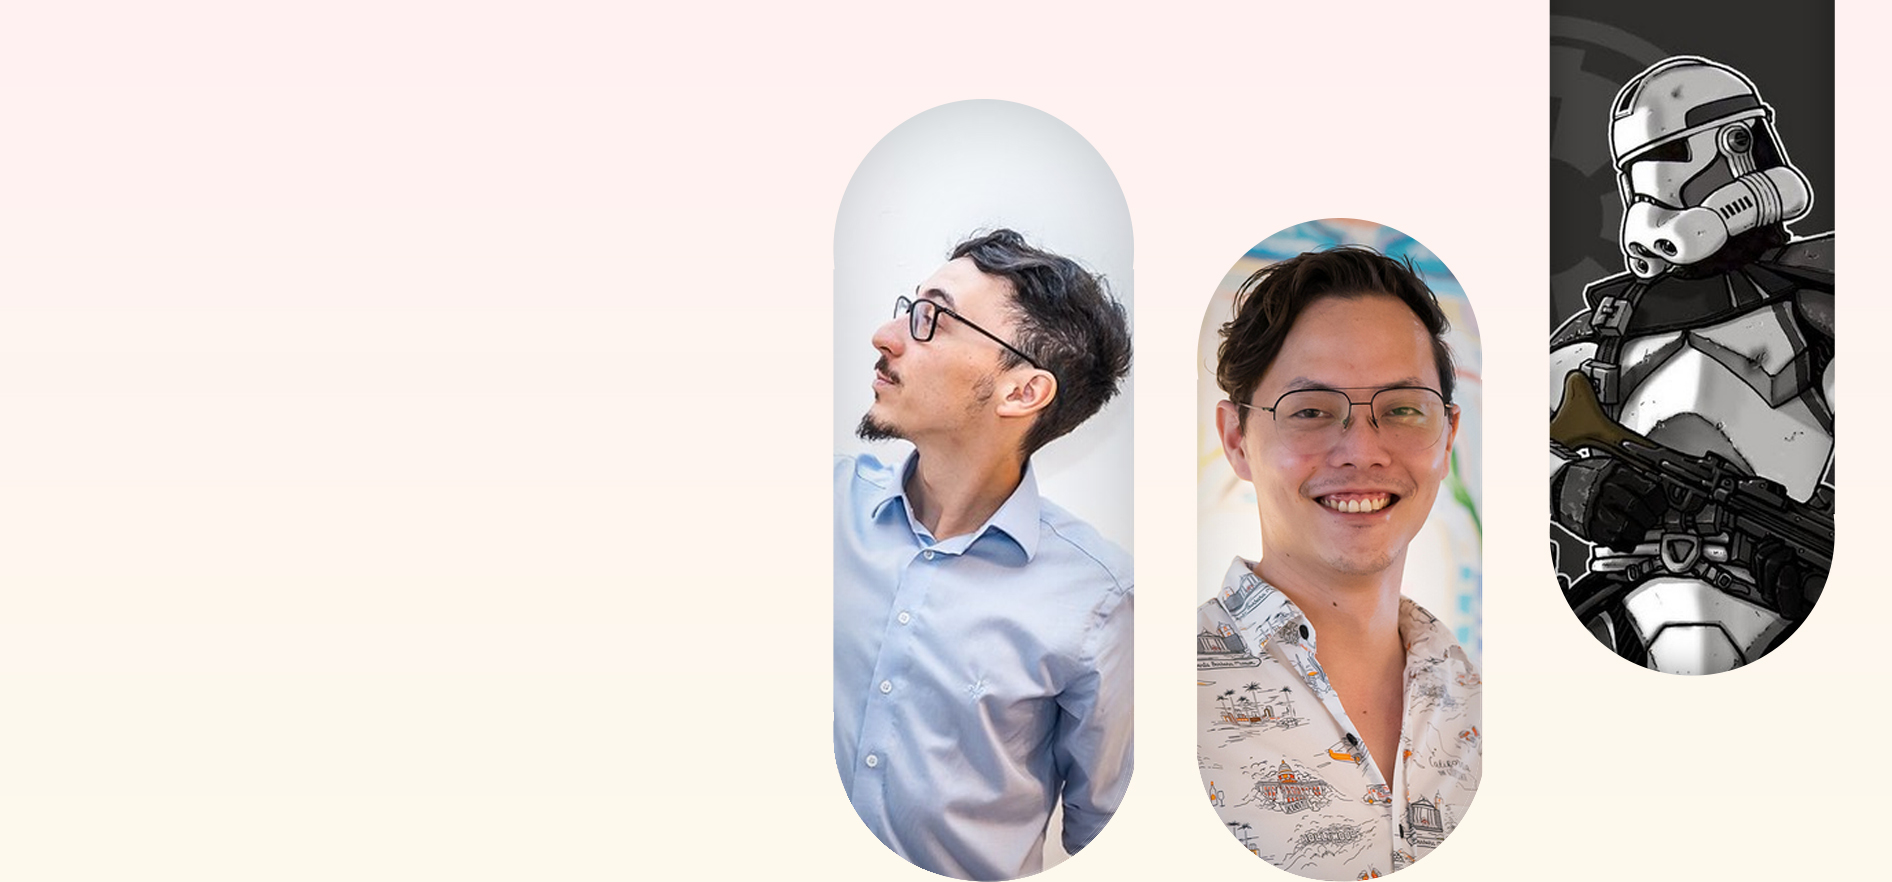
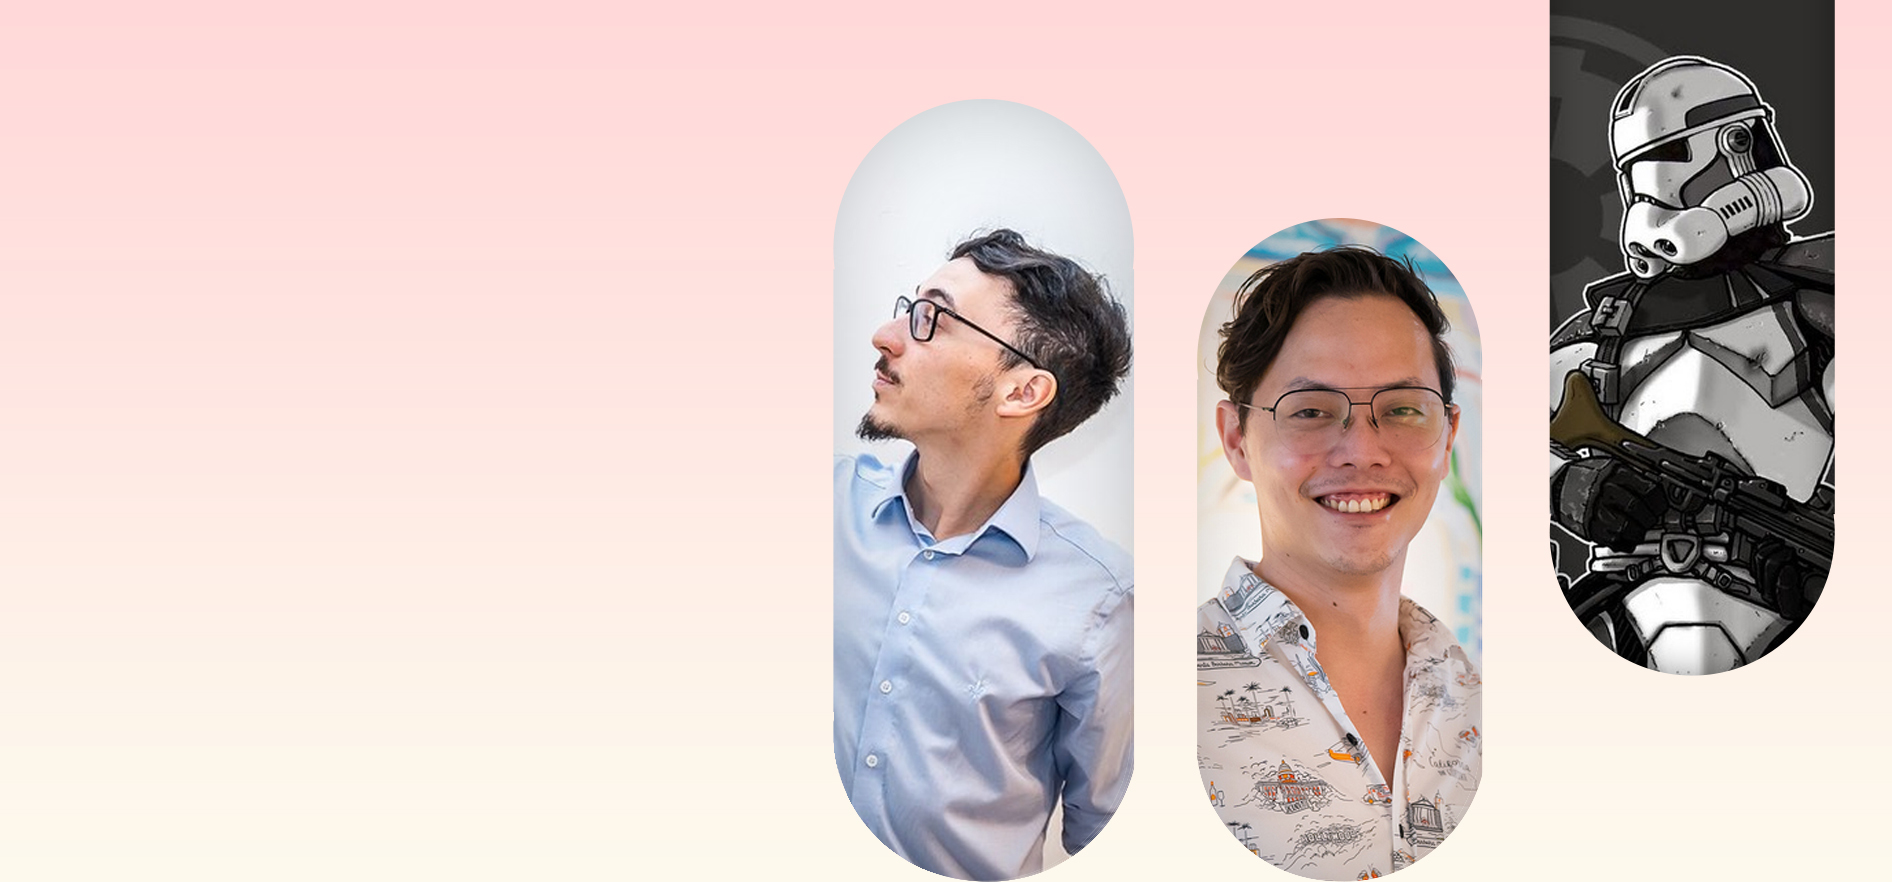
some stylin

Changed region(s): [[0.0, 0.0, 0.842, 0.0306], [0.9667, 0.0, 1.0, 0.0306]]

diff --git a/app/assets/stylesheets/components/_index.scss b/app/assets/stylesheets/components/_index.scss
@@ -12,3 +12,4 @@
 @import "tab";
 @import "banner";
 @import "carousel";
+@import "surprise";
